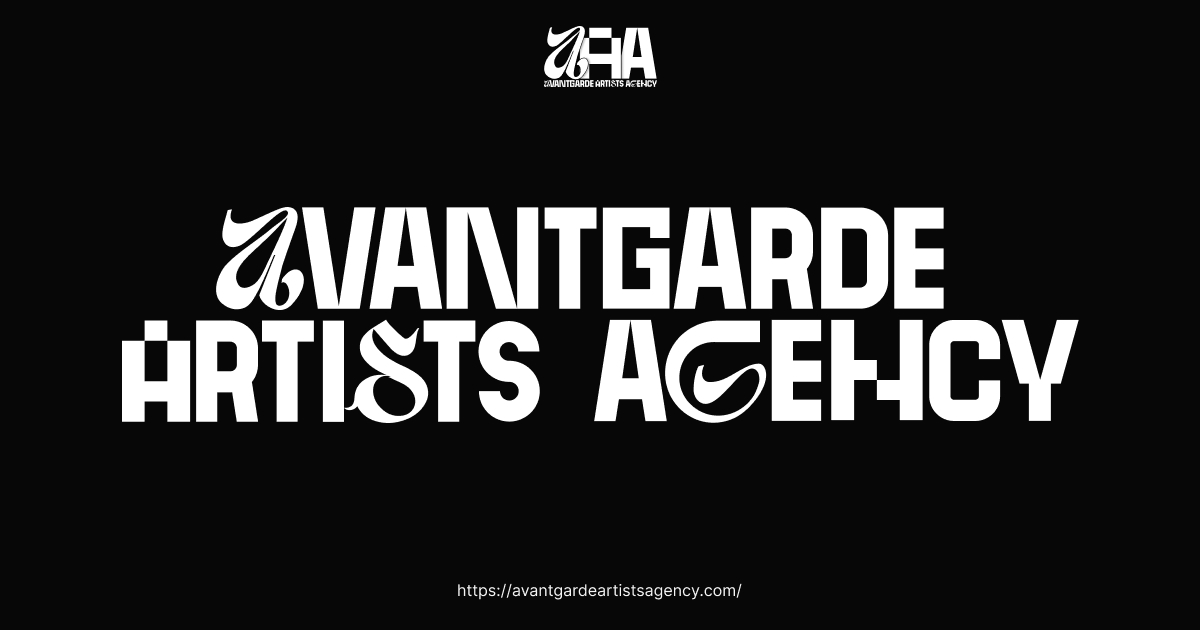
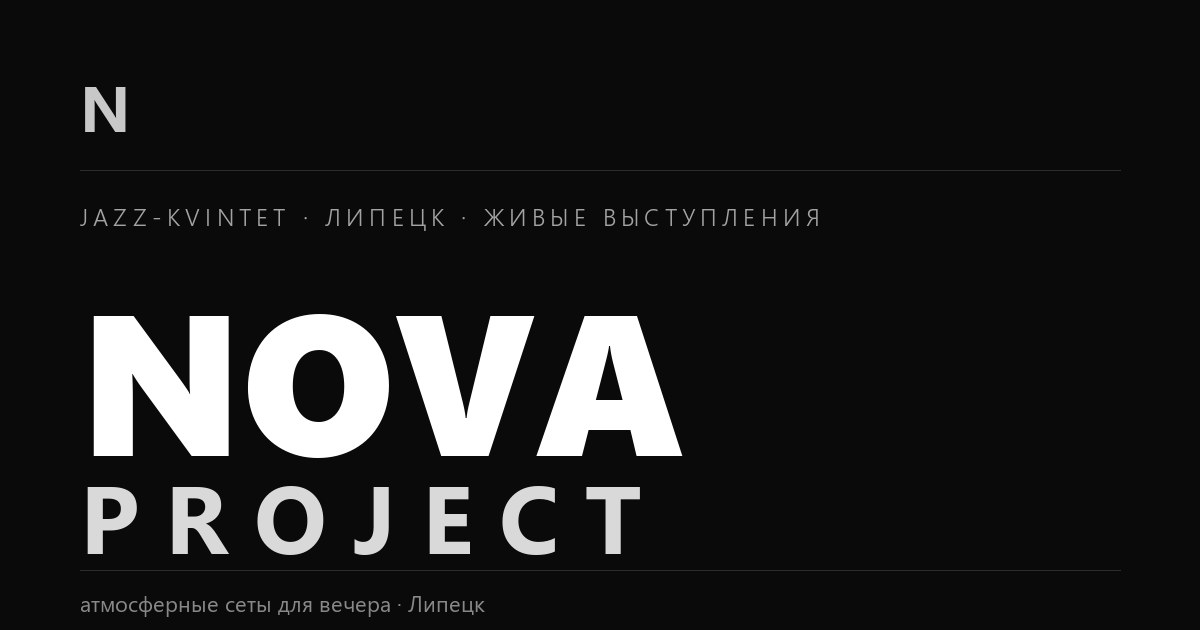
P1: alt-тексты по фактическому содержимому всех 26 снимков; подписи figcaption уточнены (вокалистка, гитарист, барабан, саксофон); og-cover — честная монохромная карточка NOVA вместо легаси-логотива, генератор scripts/make-og-cover.py

diff --git a/src/data/photos.ts b/src/data/photos.ts
@@ -94,55 +94,55 @@ const asset = (
 };
 
 /* ── Первый экран ───────────────────────────────────────────── */
-export const heroPhoto = asset(1, 'NOVA PROJECT — джаз-квинтет на сцене: живое выступление', LANDSCAPE);
+export const heroPhoto = asset(1, 'NOVA PROJECT на сцене концертного зала: саксофонист впереди, струнная группа и контрабас, дирижёр за путом', LANDSCAPE);
 
 /* ── О коллективе ───────────────────────────────────────────── */
 export const aboutPhotos = {
-  primary: asset(13, 'Музыкант NOVA PROJECT во время живого выступления (джаз-квинтет, Липецк)', PORTRAIT, 'NOVA PROJECT', 'Live'),
-  secondary: asset(3, 'Фрагмент концерта джаз-квинтета: сцена и свет', LANDSCAPE, 'Сцена', 'Live'),
+  primary: asset(13, 'Гитарист NOVA PROJECT в сцене синего света: бас-гитара, дым, гирлянда и световой экран за спиной (Липецк)', PORTRAIT, 'Гитарист', 'Live'),
+  secondary: asset(3, 'NOVA PROJECT на сцене: художественный ракурс — силуэты музыкантов, нотные стенки, тёплый свет', LANDSCAPE, 'Свет и ноты', 'Live'),
 };
 
 /* ── Репертуар ──────────────────────────────────────────────── */
 export const repertoirePhotos = {
-  tall: asset(14, 'Саксофонист NOVA PROJECT в свете софитов — живое выступление', PORTRAIT, 'Солист', 'Live'),
-  square: asset(9, 'Ритм-секция джаз-квинтета NOVA PROJECT на сцене', LANDSCAPE, 'Ритм-секция', 'Live'),
+  tall: asset(14, 'Гитарист NOVA PROJECT с бас-гитарой у светового экрана в красном свете', PORTRAIT, 'Гитарист', 'Live'),
+  square: asset(9, 'NOVA PROJECT: групповое фото пяти музыкантов у брендированной стены корпоративного вечера', LANDSCAPE, 'Квинтет', 'Live'),
 };
 
 /* ── Звук ───────────────────────────────────────────────────── */
-export const audioPhoto = asset(19, 'Импровизация джаз-квинтета: музыкант крупным планом', PORTRAIT, 'Запись', 'Live');
+export const audioPhoto = asset(19, 'Пианист NOVA PROJECT за клавишами: руки на клавиатуре, тёплые огни в темноте', PORTRAIT, 'Пианист', 'Live');
 
 /* ── Формат вечера ──────────────────────────────────────────── */
 export const formatPhotos = {
-  concert: asset(4, 'Концертная программа джаз-квинтета NOVA PROJECT', LANDSCAPE, 'Концерт', 'Live'),
-  ambient: asset(6, 'Атмосферный сет: живая музыка вечера', LANDSCAPE, 'Фоновый сет', 'Live'),
+  concert: asset(4, 'Барабанщик NOVA PROJECT подаёт взмахом палочки сигнал ансамблю, музыканты у нотных стоек за прозрачной преградой', LANDSCAPE, 'Сигнал ансамблю', 'Live'),
+  ambient: asset(6, 'Руки пианиста на белых клавишах — крупный план живого джаза', LANDSCAPE, 'Клавиши', 'Live'),
 };
 
 /* ── Стоимость ──────────────────────────────────────────────── */
-export const pricingPhoto = asset(17, 'Музыканты NOVA PROJECT перед живым выступлением', PORTRAIT, 'Перед выходом', 'Live');
+export const pricingPhoto = asset(17, 'Вокалистка NOVA PROJECT у микрофона в чёрном платье, гитарист за плечом, искры светового экрана', PORTRAIT, 'Вокалистка', 'Live');
 
 /* ── Заявка ─────────────────────────────────────────────────── */
-export const bookingPhoto = asset(12, 'Саундчек перед живым выступлением NOVA PROJECT', PORTRAIT, 'Саундчек', 'Live');
+export const bookingPhoto = asset(12, 'Барабанщик NOVA PROJECT за установкой под вечерними огнями, гитарист на переднем плане', PORTRAIT, 'Установки', 'Live');
 
 /* ── Контакты ───────────────────────────────────────────────── */
-export const contactPhoto = asset(11, 'NOVA PROJECT: финальный аккорд вечера живого джаза', LANDSCAPE, 'Финал вечера', 'Live');
+export const contactPhoto = asset(11, 'Пианист NOVA PROJECT за синтезатором: руки на клавишах, планшет с нотами, синий свет вечера', LANDSCAPE, 'Полуфинал', 'Live');
 
 /* ── Хроника (галерея) ──────────────────────────────────────── */
 export const galleryPhotos: PhotoAsset[] = [
-  asset(7, 'Выступление NOVA PROJECT перед полным залом', LANDSCAPE, 'Полный зал', 'Live'),
-  asset(15, 'Музыкант за инструментом (джаз-квинтет)', PORTRAIT, 'Солист', 'Live'),
-  asset(5, 'Концертный свет над сценой живого джаза', LANDSCAPE, 'Свет сцены', 'Live'),
-  asset(2, 'Джаз-квинтет NOVA PROJECT в полном составе', LANDSCAPE, 'Квинтет', 'Live'),
-  asset(20, 'Вечер живого джаза NOVA PROJECT', PORTRAIT, 'Вечер джаза', 'Live'),
-  asset(18, 'Деталь: руки на клавишах', PORTRAIT, 'Клавиши', 'Live'),
-  asset(21, 'Импровизация в тёмном зале', PORTRAIT, 'Импровизация', 'Live'),
-  asset(16, 'Портрет музыканта квинтета', PORTRAIT, 'Портрет', 'Live'),
-  asset(22, 'Репетиция перед вечером', PORTRAIT, 'Репетиция', 'Live'),
-  asset(26, 'Сцена перед началом сета', PORTRAIT, 'Перед сетом', 'Live'),
-  asset(8, 'Атмосфера зала на концерте', PORTRAIT, 'Атмосфера', 'Live'),
-  asset(10, 'Труба в контражуре', PORTRAIT, 'Труба', 'Live'),
-  asset(23, 'Ритм и движение', PORTRAIT, 'Ритм', 'Live'),
-  asset(25, 'Контрабас и свет', PORTRAIT, 'Контрабас', 'Live'),
-  asset(27, 'Финальный поклон квинтета', PORTRAIT, 'Финал', 'Live'),
+  asset(7, 'NOVA PROJECT: пять музыкантов в тёмных костюмах, саксофонист с золотым саксофоном, сценическая поза после сета', LANDSCAPE, 'После сета', 'Live'),
+  asset(15, 'Саксофонист NOVA PROJECT в профиль: золотый саксофон, певец у микрофона за плечом', PORTRAIT, 'Саксофон', 'Live'),
+  asset(5, 'Бас-гитарист и саксофонист NOVA PROJECT играют на сцене, струнная группа за ними', LANDSCAPE, 'Сцена', 'Live'),
+  asset(2, 'Саксофонист NOVA PROJECT крупным планом, гитарист и струнные за спиной', LANDSCAPE, 'Квинтет', 'Live'),
+  asset(20, 'Пианист NOVA PROJECT за клавишами: крупные буквы экранного текста вечера за спиной, синий свет', PORTRAIT, 'Экран', 'Live'),
+  asset(18, 'Золотой саксофон в руках музыканта — деталь, тёплые огни, силуэт платья в глубине', PORTRAIT, 'Саксофон', 'Live'),
+  asset(21, 'Гитарист NOVA PROJECT в синем свете, пианист за клавишами и тарелки установки на переднем плане', PORTRAIT, 'Бас и клавиши', 'Live'),
+  asset(16, 'Гитарист NOVA PROJECT в свете софитов: бас-гитара, нотная стойка, гирлянда', PORTRAIT, 'Софиты', 'Live'),
+  asset(22, 'NOVA PROJECT на вечерней сцене: вокалистка у микрофона, барабанщик, саксофонист, зрители за столами', PORTRAIT, 'Вечер', 'Live'),
+  asset(26, 'Вокалистка NOVA PROJECT поёт в профиль: золотой саксофон в расфокусе на переднем плане, гирлянда', PORTRAIT, 'Вокалистка', 'Live'),
+  asset(8, 'NOVA PROJECT на летнем фестивальном вечере: пять музыкантов у белосводого шатра на поле', PORTRAIT, 'Шатёр', 'Live'),
+  asset(10, 'Золотой саксофон крупным планом: клавиши, гравировка и раструб на тёмном бархате', PORTRAIT, 'Саксофон', 'Live'),
+  asset(23, 'Барабанщик NOVA PROJECT с палочками в фиолетовом свете, гитарист и световой экран за ним', PORTRAIT, 'Барабан', 'Live'),
+  asset(25, 'Гитарист NOVA PROJECT с белой бас-гитарой, вокалистка у микрофона слева, золотое поле огоньков', PORTRAIT, 'Бас-гитара', 'Live'),
+  asset(27, 'NOVA PROJECT на сцене вечером: музыканты в тёмных костюмах, саксофонист, огни шатра, ноутбук с нотным плейлистом', PORTRAIT, 'Семь на сцене', 'Live'),
 ];
 
 /** Сколько снимков показываем сразу, остальные — по кнопке «Показать ещё» */

diff --git a/index.html b/index.html
@@ -30,7 +30,7 @@
     <meta property="og:image" content="https://ivashkinsan.github.io/Nova_project_site/og-cover.jpg" />
     <meta property="og:image:width" content="1200" />
     <meta property="og:image:height" content="630" />
-    <meta property="og:image:alt" content="NOVA PROJECT — джаз-квинтет: обложка сайта" />
+    <meta property="og:image:alt" content="NOVA PROJECT — джаз-квинтет из Липецка: текстовая обложка сайта" />
     <meta property="og:locale" content="ru_RU" />
 
     <!-- Twitter Cards -->

diff --git a/scripts/make-og-cover.py b/scripts/make-og-cover.py
@@ -1,0 +1,63 @@
+"""Генератор обложки соцсетей Public/og-cover.jpg (1200x630).
+
+Монохромная карточка в рамках концепции лендинга: фон #0a0a0a, белый текст,
+хайрлайны, нулевые скругления, широкий трекинг. Шрифты — локальные ступени
+Segoe UI (Inter скачиванием недоступен: сеть к шрифтовым CDN закрыта).
+Запуск: python scripts/make-og-cover.py
+"""
+from PIL import Image, ImageDraw, ImageFont
+import pathlib
+
+W, H = 1200, 630
+BG = (10, 10, 10)
+WHITE = (255, 255, 255)
+
+FONT_DIR = pathlib.Path('C:/Windows/Fonts')
+def font(name, size):
+    return ImageFont.truetype(str(FONT_DIR / name), size)
+
+img = Image.new('RGB', (W, H), BG)
+d = ImageDraw.Draw(img)
+
+MARGIN = 80
+
+def tracked(text, f, x, y, fill, tracking):
+    """Рисует строку с ручным трекингом (пиксели между символами)."""
+    cx = x
+    for ch in text:
+        d.text((cx, y), ch, font=f, fill=fill)
+        cx += d.textlength(ch, font=f) + tracking
+
+def hairline(y, alpha):
+    v = int(255 * alpha)
+    d.line([(MARGIN, y), (W - MARGIN, y)], fill=(v, v, v), width=1)
+
+# Монограмма N
+f_mono = font('segoeuib.ttf', 64)
+d.text((MARGIN, 62), 'N', font=f_mono, fill=(200, 200, 200))
+
+hairline(170, 0.18)
+
+# Кикер: жанр, город, формат — ключевые слова SEO
+f_kicker = font('segoeuisl.ttf', 24)
+tracked('JAZZ-KVINTET · ЛИПЕЦК · ЖИВЫЕ ВЫСТУПЛЕНИЯ', f_kicker,
+        MARGIN, 200, (163, 163, 163), 5.2)
+
+# Заголовок NOVA
+f_nova = font('seguibl.ttf', 200)
+d.text((MARGIN, 240), 'NOVA', font=f_nova, fill=WHITE)
+
+# PROJECT с широким трекингом
+f_proj = font('segoeuib.ttf', 96)
+tracked('PROJECT', f_proj, MARGIN, 450, (217, 217, 217), 26)
+
+hairline(570, 0.18)
+
+# Нижняя строка
+f_foot = font('segoeui.ttf', 22)
+d.text((MARGIN, 588), 'атмосферные сеты для вечера · Липецк', font=f_foot,
+       fill=(136, 136, 136))
+
+out = pathlib.Path('Public/og-cover.jpg')
+img.save(out, 'JPEG', quality=88)
+print('saved', out, out.stat().st_size, 'bytes')
